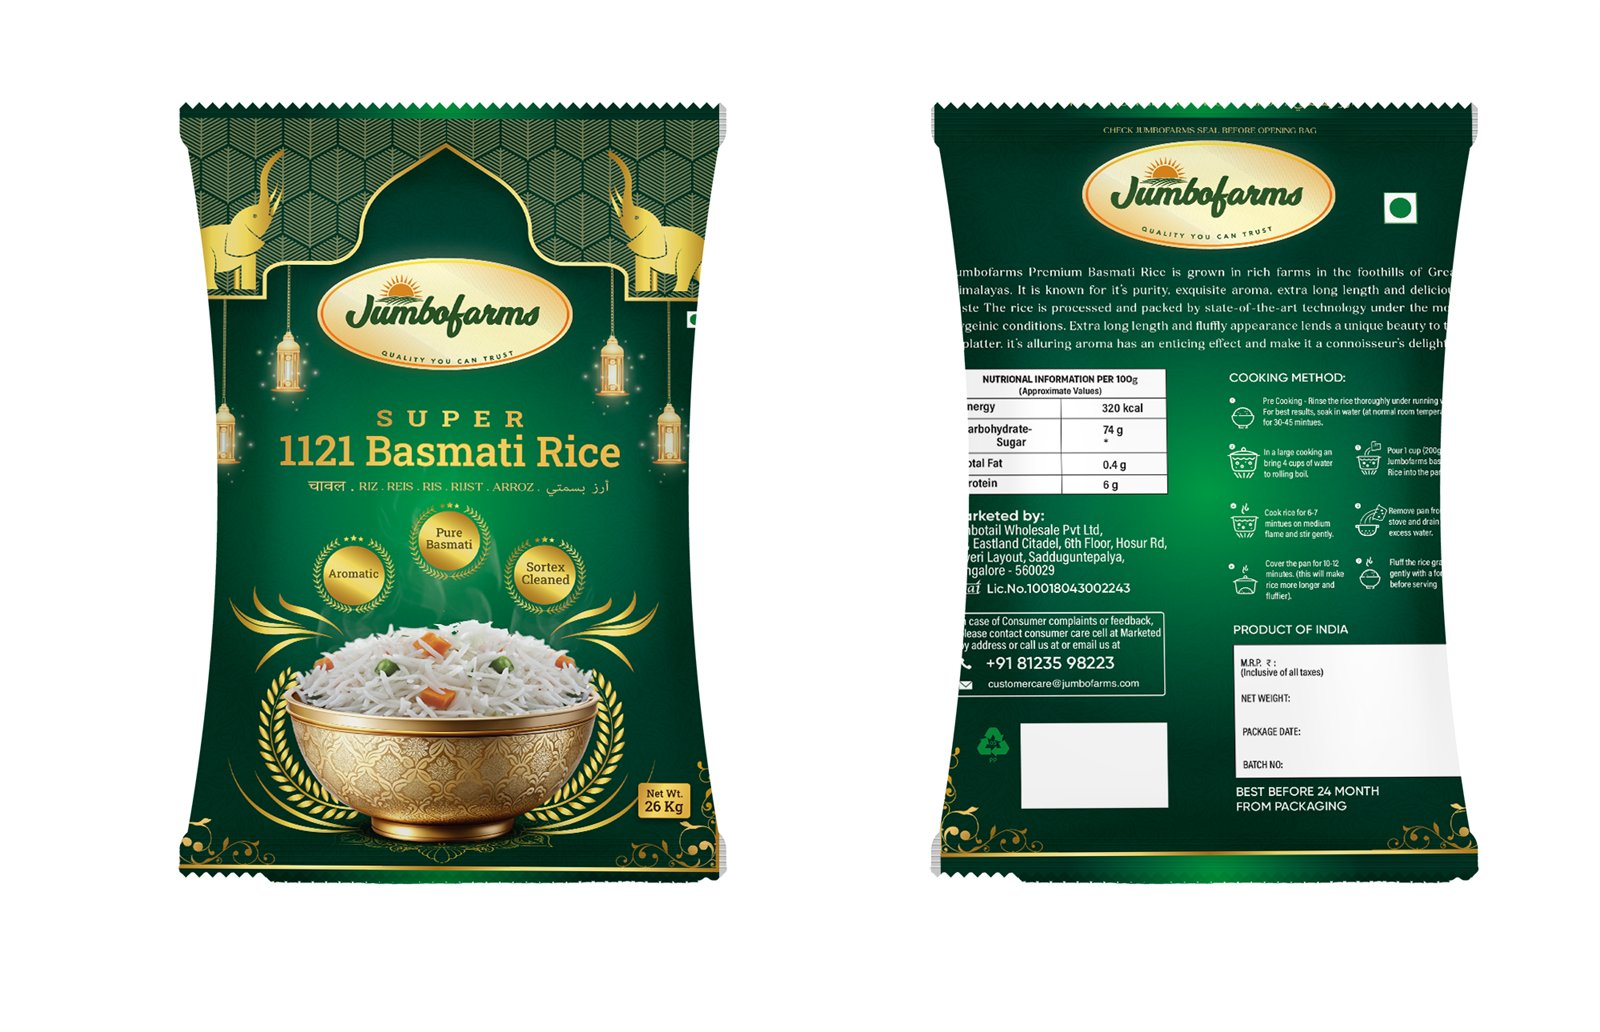
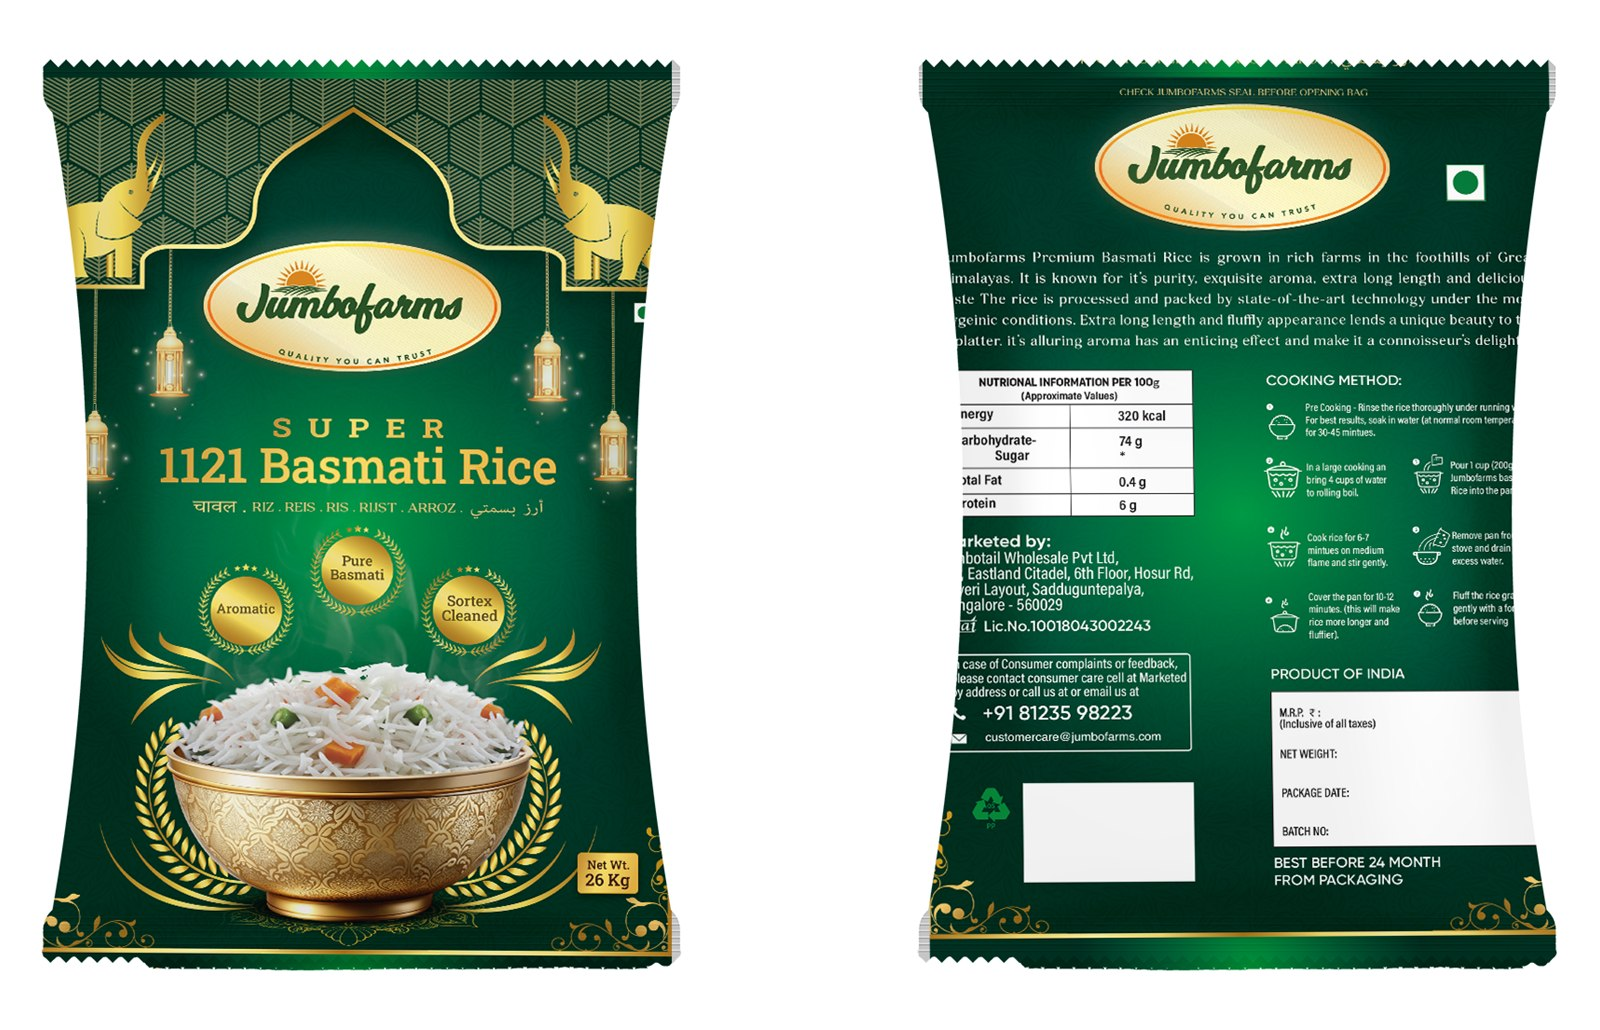
Rice cards: the bag as thumbnail, the artwork on hover
The new -1 mockups are single bags shot on white, which is what a card
should show - the old images were the flat front-and-reverse artwork,
two small objects with a gap between them at thumbnail size.

So the thumbnail is now the bag, and hovering fades to the front-and-
reverse spread with a line of copy underneath. Nothing moves; only
opacity and the note's height change, so the grid stays still while you
read across it. Focus does the same thing as hover, and on touch, where
there is no hover, the note is simply always shown and the spread is not
loaded.

The notes describe the pack, not the grade. Grain length and breakage
are milling terms I have no source for, and the range's whole argument
is that only the colour changes - so each note says which colour, and
what stays fixed.

One real bug this exposed: the dark theme dims every img at
:root[data-theme="dark"] img, which is (0,2,1), and that beat
.project-alt at (0,1,0). Both faces were therefore visible at 0.94 from
the start, the spread stacked on the bag. Exempting the two stacked
faces from that rule fixes it without escalating specificity on the
hover rules as well. Verified at rest: face 1, spread 0.

Also regenerated the nine spreads at full width for the rice case study.

diff --git a/outputs/projects.html b/outputs/projects.html
@@ -77,7 +77,7 @@
   --surface-2:#141419;
   --hairline:rgba(255,255,255,.12);
 }
-:root[data-theme="dark"] img{ opacity:.94; }
+:root[data-theme="dark"] img:not(.project-face):not(.project-alt){ opacity:.94; }
 
 .theme-toggle{
   width:34px; height:34px; flex:0 0 auto;
@@ -154,6 +154,43 @@ a.mark::before,a.back::before,.nav-links a::before,.top-nav a::before,.top a::be
   .grid{ grid-template-columns:repeat(auto-fill, minmax(150px, 1fr)); gap:12px; }
   .project{ min-height:0; }
 }
+/* ---------- card hover ----------
+   The thumbnail is the bag as it looks on a shelf. Hovering swaps to the
+   flat artwork, front and reverse, and reveals a line about the pack -
+   the detail you would want after the bag has caught your eye, not
+   before. Nothing moves; only opacity changes, so the grid stays still. */
+.project-media{ position:relative; }
+.project-face, .project-alt{
+  position:absolute; inset:0; width:100%; height:100%;
+  object-fit:contain; padding:10px; display:block;
+  transition:opacity .28s ease;
+}
+.project-alt{ opacity:0; }
+.project.has-alt:hover .project-face,
+.project.has-alt:focus-visible .project-face{ opacity:0; }
+.project.has-alt:hover .project-alt,
+.project.has-alt:focus-visible .project-alt{ opacity:1; }
+/* the scale-up belonged to a single image; with two stacked it doubles up */
+.project.has-study:hover .project-media img{ transform:none; }
+
+.project-note{
+  margin:0;
+  max-height:0; opacity:0; overflow:hidden;
+  color:var(--muted); font-size:12.5px; line-height:1.5;
+  transition:max-height .3s ease, opacity .25s ease, margin-top .3s ease;
+}
+.project.has-study:hover .project-note,
+.project.has-study:focus-visible .project-note{
+  max-height:6.5em; opacity:1; margin-top:10px;
+}
+/* Touch has no hover: show the note, and leave the shelf shot in place. */
+@media (hover: none){
+  .project-note{ max-height:none; opacity:1; margin-top:10px; }
+  .project-alt{ display:none; }
+}
+@media (prefers-reduced-motion: reduce){
+  .project-face, .project-alt, .project-note{ transition:none !important; }
+}
 </style>
 </head>
 <body><div class="progress" id="progress"></div><header class="top"><a class="mark" href="index.html" aria-label="Kiran Goutam D &mdash; home">Kiran Goutam D</a><button type="button" class="theme-toggle" id="theme-toggle" aria-label="Switch to dark theme" aria-pressed="false">
@@ -188,9 +225,20 @@ const LINKS_ENABLED=false;
 // Entries whose work is written up on this site link to the case study
 // instead of out to Drive. Keyed by exact name so nothing over-promises:
 // only the pieces those pages actually show are listed here.
-const art={'Jumbofarms Basmati Rice Dubar 26Kg':['assets/cards/rice-dubar.jpg','Jumbofarms Dubar basmati, front and reverse'],'Jumbofarms Basmati Rice Everyday 26Kg':['assets/cards/rice-everyday.jpg','Jumbofarms Everyday basmati, front and reverse'],'Jumbofarms Basmati Rice Mogra 26Kg':['assets/cards/rice-mogra.jpg','Jumbofarms Mogra basmati, front and reverse'],'Jumbofarms Basmati Rice Mini Mogra 26Kg':['assets/cards/rice-mini-mogra.jpg','Jumbofarms Mini Mogra basmati, front and reverse'],'Jumbofarms Basmati Rice Premium 26Kg':['assets/cards/rice-premium.jpg','Jumbofarms Premium basmati, front and reverse'],'Jumbofarms Basmati Rice Royal 26Kg':['assets/cards/rice-royal.jpg','Jumbofarms Royal basmati, front and reverse'],'Jumbofarms Basmati Rice Super 26Kg':['assets/cards/rice-super.jpg','Jumbofarms Super basmati, front and reverse'],'Jumbofarms Basmati Rice Supreme 26Kg':['assets/cards/rice-supreme.jpg','Jumbofarms Supreme basmati, front and reverse'],'Jumbofarms Basmati Rice Tibar 26Kg':['assets/cards/rice-tibar.jpg','Jumbofarms Tibar basmati sack'],'Jumbofarms Sonam Rice 26Kg':['assets/cards/rice-sonam.jpg','Jumbofarms Sonam Kolam steamed rice sack'],'Jumbofarms Coriander 1Kg':['assets/cards/coriander-1kg.jpg','Jumbofarms Dhaniya 1kg stand-up pouch'],'Jumbofarms Coriander Seeds 5K Mango':['assets/cards/coriander-5kg.jpg','Jumbofarms Dhaniya 5kg Gondal Special sack'],'Jumbofarms Jeera Seeds 5Kg Supreme':['assets/cards/jeera-supreme.jpg','Jumbofarms Jeera Supreme 5kg sack'],'Jumbofarms Jeera Seeds 5Kg premium':['assets/cards/jeera-premium.jpg','Jumbofarms Jeera Premium 5kg sack'],'Jumbofarms Soya Chunks 220gm':['assets/cards/soya-220g.jpg','Jumbofarms Soya Chunks 220g carton'],'Jumbofarms Soya Chunks ₹10':['assets/cards/soya-10.jpg','Jumbofarms Soya Chunks ₹10 packet'],'Jumbofarms Soya Chunks Mini ₹10':['assets/cards/soya-mini.jpg','Jumbofarms Mini Soya Chunks ₹10 packet'],'Jumbofarms Mustard Oil 1L':['assets/cards/oil-1l.jpg','Jumbofarms Mustard Oil 1L with the Scan and Win panel'],'Jumbofarms Mustard Oil 500ml':['assets/cards/oil-500ml.jpg','Jumbofarms Mustard Oil 500ml bottle'],'Jumbofarms Mustard Oil 200ml':['assets/cards/oil-200ml.jpg','Jumbofarms Mustard Oil 200ml bottle'],'Vedhaa Ghee 900ml':['assets/cards/vedha-900ml.jpg','Vedha Pooja Ghee 900ml bottle'],'Vedhaa Ghee 450ml':['assets/cards/vedha-450ml.jpg','Vedha Pooja Ghee 450ml bottle'],'Vedhaa Ghee 100ml':['assets/cards/vedha-100ml.jpg','Vedha Pooja Ghee 100ml bottle'],'Jumbofarms Channa Dal 26kg':['assets/cards/dal-channa.jpg','Jumbofarms Chana Dal Premium Sortex, front and reverse'],'Jumbofarms Atta 30Kg':['assets/cards/atta-30kg.jpg','Jumbofarms Chakki Fresh Atta 30kg sack'],'Jumbofarms Sooji 500gm':['assets/cards/sooji-500g.jpg','Jumbofarms Roasted Sooji 500g pouch'],'Crispy Corner Garlic Mixture ₹10':['assets/cards/crispy-garlic.jpg','Crispy Corner Garlic Mixture packet'],'Crispy Corner Corn Flakes ₹10':['assets/cards/crispy-cornflakes.jpg','Crispy Corner Corn Flakes Mixture packet'],'Trippy Goat — Around the Mediterranean':['assets/cards/trippy-goat.jpg','Trippy Goat menu for Around the Mediterranean']};
+const note={'Jumbofarms Basmati Rice Dubar 26Kg':'Teal. Arch, peacocks, brass bowl and roundels are identical across all nine grades.','Jumbofarms Basmati Rice Everyday 26Kg':'Aubergine. The grade name is the only word that changes above &ldquo;1121 Basmati Rice&rdquo;.','Jumbofarms Basmati Rice Mini Mogra 26Kg':'Black, the darkest in the range, and the only one where the gold frame carries the whole pack.','Jumbofarms Basmati Rice Mogra 26Kg':'Brown. Sits beside Mini Mogra on the shelf, separated by value alone.','Jumbofarms Basmati Rice Premium 26Kg':'Oxblood. One of four jewel tones used for the upper grades.','Jumbofarms Basmati Rice Royal 26Kg':'Navy. The reverse carries the nutrition table, cooking icons and the batch window, unchanged across the range.','Jumbofarms Basmati Rice Super 26Kg':'Green, the only grade that breaks from the warm and jewel families.','Jumbofarms Basmati Rice Supreme 26Kg':'Gold. Reads as the top of the ladder without a single word saying so.','Jumbofarms Basmati Rice Tibar 26Kg':'Magenta, the most saturated of the nine and the easiest to find in a stack.','Jumbofarms Sonam Rice 26Kg':'Outside the system: Kolam steamed rice, not 1121 basmati, so it drops the arch for a photographed field.'};
+const art={'Jumbofarms Basmati Rice Dubar 26Kg':['assets/cards/rice-dubar.jpg','Jumbofarms Dubar basmati, front and reverse','assets/cards/rice-dubar-spread.jpg'],'Jumbofarms Basmati Rice Everyday 26Kg':['assets/cards/rice-everyday.jpg','Jumbofarms Everyday basmati, front and reverse','assets/cards/rice-everyday-spread.jpg'],'Jumbofarms Basmati Rice Mogra 26Kg':['assets/cards/rice-mogra.jpg','Jumbofarms Mogra basmati, front and reverse','assets/cards/rice-mogra-spread.jpg'],'Jumbofarms Basmati Rice Mini Mogra 26Kg':['assets/cards/rice-mini-mogra.jpg','Jumbofarms Mini Mogra basmati, front and reverse','assets/cards/rice-mini-mogra-spread.jpg'],'Jumbofarms Basmati Rice Premium 26Kg':['assets/cards/rice-premium.jpg','Jumbofarms Premium basmati, front and reverse','assets/cards/rice-premium-spread.jpg'],'Jumbofarms Basmati Rice Royal 26Kg':['assets/cards/rice-royal.jpg','Jumbofarms Royal basmati, front and reverse','assets/cards/rice-royal-spread.jpg'],'Jumbofarms Basmati Rice Super 26Kg':['assets/cards/rice-super.jpg','Jumbofarms Super basmati, front and reverse','assets/cards/rice-super-spread.jpg'],'Jumbofarms Basmati Rice Supreme 26Kg':['assets/cards/rice-supreme.jpg','Jumbofarms Supreme basmati, front and reverse','assets/cards/rice-supreme-spread.jpg'],'Jumbofarms Basmati Rice Tibar 26Kg':['assets/cards/rice-tibar.jpg','Jumbofarms Tibar basmati sack','assets/cards/rice-tibar-spread.jpg'],'Jumbofarms Sonam Rice 26Kg':['assets/cards/rice-sonam.jpg','Jumbofarms Sonam Kolam steamed rice sack'],'Jumbofarms Coriander 1Kg':['assets/cards/coriander-1kg.jpg','Jumbofarms Dhaniya 1kg stand-up pouch'],'Jumbofarms Coriander Seeds 5K Mango':['assets/cards/coriander-5kg.jpg','Jumbofarms Dhaniya 5kg Gondal Special sack'],'Jumbofarms Jeera Seeds 5Kg Supreme':['assets/cards/jeera-supreme.jpg','Jumbofarms Jeera Supreme 5kg sack'],'Jumbofarms Jeera Seeds 5Kg premium':['assets/cards/jeera-premium.jpg','Jumbofarms Jeera Premium 5kg sack'],'Jumbofarms Soya Chunks 220gm':['assets/cards/soya-220g.jpg','Jumbofarms Soya Chunks 220g carton'],'Jumbofarms Soya Chunks ₹10':['assets/cards/soya-10.jpg','Jumbofarms Soya Chunks ₹10 packet'],'Jumbofarms Soya Chunks Mini ₹10':['assets/cards/soya-mini.jpg','Jumbofarms Mini Soya Chunks ₹10 packet'],'Jumbofarms Mustard Oil 1L':['assets/cards/oil-1l.jpg','Jumbofarms Mustard Oil 1L with the Scan and Win panel'],'Jumbofarms Mustard Oil 500ml':['assets/cards/oil-500ml.jpg','Jumbofarms Mustard Oil 500ml bottle'],'Jumbofarms Mustard Oil 200ml':['assets/cards/oil-200ml.jpg','Jumbofarms Mustard Oil 200ml bottle'],'Vedhaa Ghee 900ml':['assets/cards/vedha-900ml.jpg','Vedha Pooja Ghee 900ml bottle'],'Vedhaa Ghee 450ml':['assets/cards/vedha-450ml.jpg','Vedha Pooja Ghee 450ml bottle'],'Vedhaa Ghee 100ml':['assets/cards/vedha-100ml.jpg','Vedha Pooja Ghee 100ml bottle'],'Jumbofarms Channa Dal 26kg':['assets/cards/dal-channa.jpg','Jumbofarms Chana Dal Premium Sortex, front and reverse'],'Jumbofarms Atta 30Kg':['assets/cards/atta-30kg.jpg','Jumbofarms Chakki Fresh Atta 30kg sack'],'Jumbofarms Sooji 500gm':['assets/cards/sooji-500g.jpg','Jumbofarms Roasted Sooji 500g pouch'],'Crispy Corner Garlic Mixture ₹10':['assets/cards/crispy-garlic.jpg','Crispy Corner Garlic Mixture packet'],'Crispy Corner Corn Flakes ₹10':['assets/cards/crispy-cornflakes.jpg','Crispy Corner Corn Flakes Mixture packet'],'Trippy Goat — Around the Mediterranean':['assets/cards/trippy-goat.jpg','Trippy Goat menu for Around the Mediterranean']};
 const caseStudy={'Trippy Goat — Around the Mediterranean':'trippy-goat.html','Crispy Corner Corn Flakes ₹10':'crispy-corner.html','Crispy Corner Garlic Mixture ₹10':'crispy-corner.html','Jumbofarms Atta 30Kg':'jumbofarms-atta-sooji.html','Jumbofarms Basmati Rice Dubar 26Kg':'jumbofarms-rice.html','Jumbofarms Basmati Rice Everyday 26Kg':'jumbofarms-rice.html','Jumbofarms Basmati Rice Mini Mogra 26Kg':'jumbofarms-rice.html','Jumbofarms Basmati Rice Mogra 26Kg':'jumbofarms-rice.html','Jumbofarms Basmati Rice Premium 26Kg':'jumbofarms-rice.html','Jumbofarms Basmati Rice Royal 26Kg':'jumbofarms-rice.html','Jumbofarms Basmati Rice Super 26Kg':'jumbofarms-rice.html','Jumbofarms Basmati Rice Supreme 26Kg':'jumbofarms-rice.html','Jumbofarms Basmati Rice Tibar 26Kg':'jumbofarms-rice.html','Jumbofarms CTC Danglers 20x20in':'jumbofarms.html','Jumbofarms Channa Dal 26kg':'jumbofarms-dals.html','Jumbofarms Coriander 1Kg':'jumbofarms-coriander.html','Jumbofarms Coriander Seeds 10Kg A1':'jumbofarms-coriander.html','Jumbofarms Coriander Seeds 10Kg Mango':'jumbofarms-coriander.html','Jumbofarms Coriander Seeds 5K Mango':'jumbofarms-coriander.html','Jumbofarms Coriander Seeds 5Kg A1':'jumbofarms-coriander.html','Jumbofarms Jeera Samba Rice 1Kg':'jumbofarms-rice.html','Jumbofarms Jeera Seeds 1Kg':'jumbofarms-jeera.html','Jumbofarms Jeera Seeds 5Kg Supreme':'jumbofarms-jeera.html','Jumbofarms Jeera Seeds 5Kg premium':'jumbofarms-jeera.html','Jumbofarms Mustard Oil 1L':'jumbofarms-mustard-oil.html','Jumbofarms Mustard Oil 250ml':'jumbofarms-mustard-oil.html','Jumbofarms Mustard Oil 500ml':'jumbofarms-mustard-oil.html','Jumbofarms Sonam Rice 26Kg':'jumbofarms-rice.html','Jumbofarms Sooji 500gm':'jumbofarms-atta-sooji.html','Jumbofarms Soya Chunks 220gm':'jumbofarms-soya-chunks.html','Jumbofarms Soya Chunks Mini ₹10':'jumbofarms-soya-chunks.html','Jumbofarms Soya Chunks ₹10':'jumbofarms-soya-chunks.html','Jumbofarms Vada Kolam Rice 26Kg':'jumbofarms-rice.html','Jumbotail Name Boards':'jumbofarms.html','Mustard Oil Marketing Poster A3':'jumbofarms.html','Vedhaa Ghee 100ml':'vedha-pooja-ghee.html','Vedhaa Ghee 450ml':'vedha-pooja-ghee.html','Vedhaa Ghee 900ml':'vedha-pooja-ghee.html'};
-function card([name,type,link]){const a=art[name];const media=a?`<div class="project-media"><img loading="lazy" src="${a[0]}" alt="${a[1]}"></div>`:'';const body=`<div class="project-body"><h2>${name}</h2><span class="meta">${type}</span></div>`;const study=caseStudy[name];const to=study||(link.startsWith('http')?link:null);if(!to)return `<article class="project ${kind[type]}">${media}${body}</article>`;const ext=study?'':' target="_blank" rel="noopener"';return `<a class="project ${kind[type]} has-study" href="${to}"${ext}>${media}${body}</a>`;}
+function card([name,type,link]){const a=art[name];const n=note[name];
+  const alt=a?a[0].replace(/\.jpg$/,'-spread.jpg'):null;
+  const hasAlt=a&&a[2];
+  const face=hasAlt?`<img class="project-alt" loading="lazy" src="${a[2]}" alt="${a[1]}, front and reverse">`:'';
+  const media=a?`<div class="project-media"><img class="project-face" loading="lazy" src="${a[0]}" alt="${a[1]}">${face}</div>`:'';
+  const noteEl=n?`<p class="project-note">${n}</p>`:'';
+  const body=`<div class="project-body"><h2>${name}</h2><span class="meta">${type}</span>${noteEl}</div>`;
+  const study=caseStudy[name];const to=study||(link.startsWith('http')?link:null);
+  if(!to)return `<article class="project ${kind[type]}">${media}${body}</article>`;
+  const ext=study?'':' target="_blank" rel="noopener"';
+  return `<a class="project ${kind[type]} has-study${hasAlt?' has-alt':''}" href="${to}"${ext}>${media}${body}</a>`;}
 let keyword='';
 function render(filter='all'){const shown=projects.filter(p=>(filter==='all'||p[1]===filter)&&(!keyword||p[0].toLowerCase().includes(keyword)));grid.innerHTML=shown.map(card).join('');count.textContent=`${shown.length} project${shown.length===1?'':'s'} shown`;empty.style.display=shown.length?'none':'block'}document.querySelectorAll('.filter').forEach(button=>button.addEventListener('click',()=>{keyword='';if(location.hash)history.replaceState(null,'',location.pathname);syncNotice();document.querySelector('.filter.active').classList.remove('active');button.classList.add('active');render(button.dataset.filter)}));
 const notice=document.querySelector('#notice');
